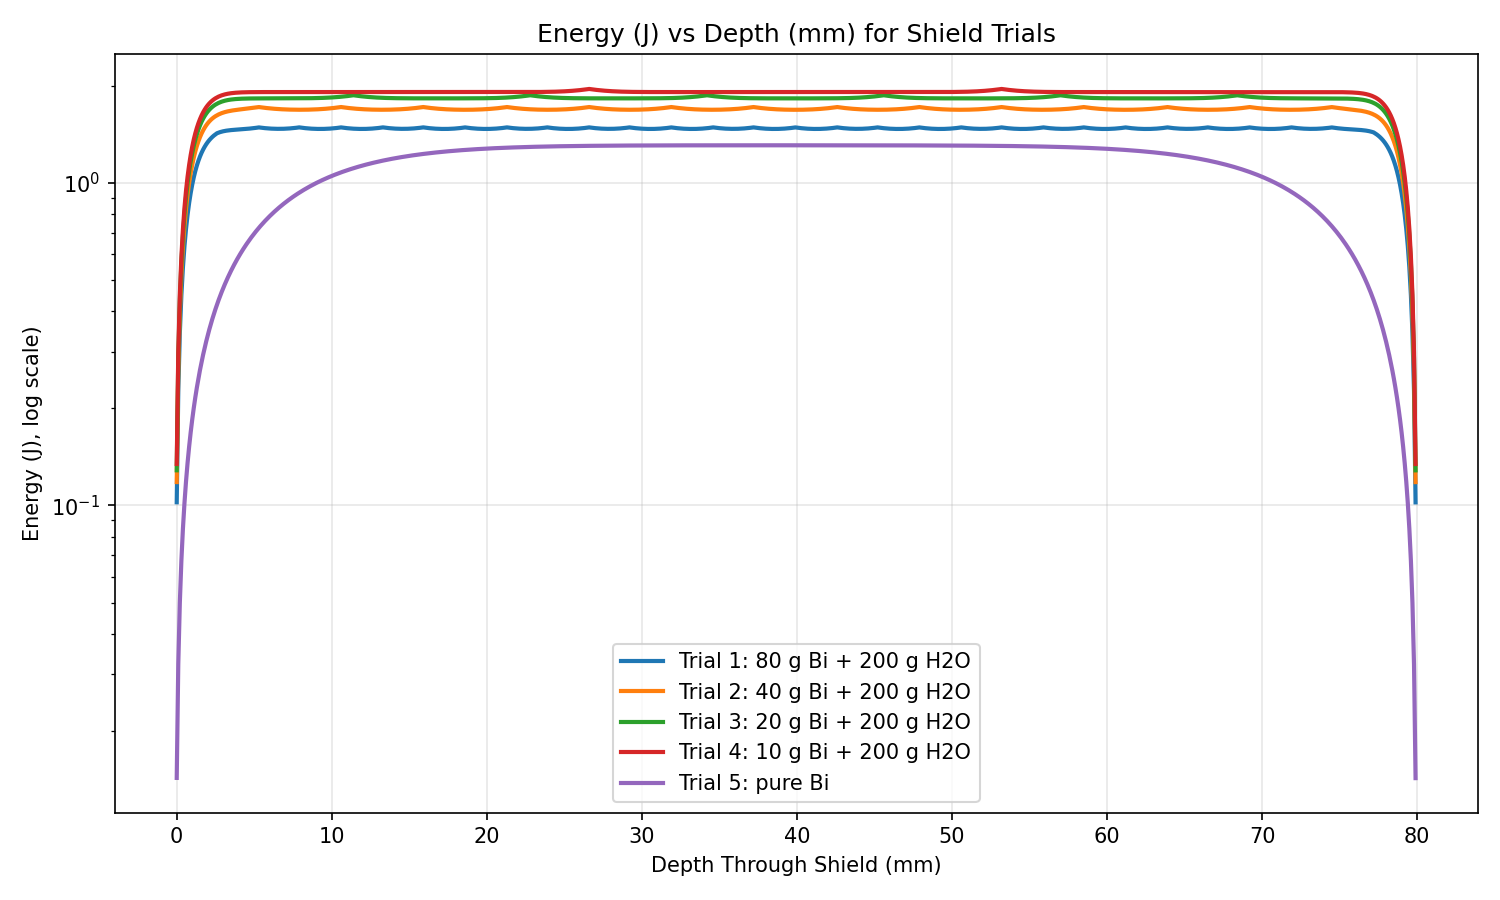
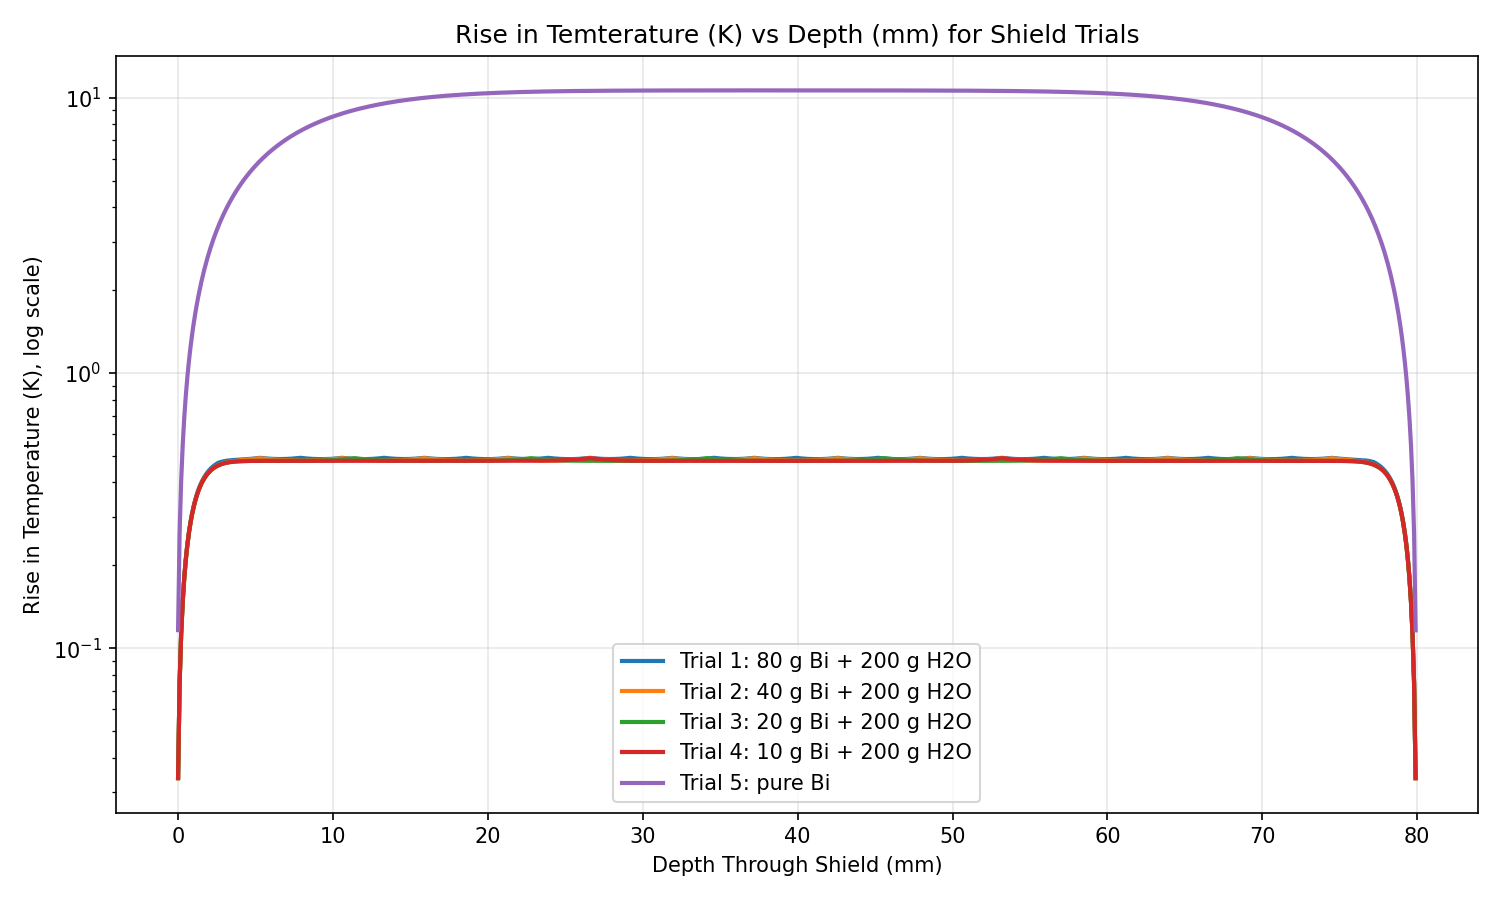
added back temperature rise over length

diff --git a/sim.py b/sim.py
@@ -420,10 +420,28 @@ def plot_trial_energy_profiles():
     ax.legend()
     ax.grid(alpha=0.3)
     fig.tight_layout()
-    fig.savefig("temperature_rise_by_trial.png", dpi=150)
+    fig.savefig("energy_rise_by_trial.png", dpi=150)
     return fig
 
 
+def plot_trial_temperature_profiles():
+    fig, ax = plt.subplots(figsize=(10, 6))
+
+    for label, bismuth_g, water_ml in TRIALS:
+        material_map = build_trial_material_map(bismuth_g, water_ml)
+        total_mass_kg = compute_trial_total_mass_kg(bismuth_g, water_ml)
+        _, _, _, _, z, T_final, _, _ = simulate_material_map(material_map)
+        ax.plot(z * 1000, (T_final - T_ENV), linewidth=2, label=label)
+
+    ax.set_xlabel("Depth Through Shield (mm)")
+    ax.set_ylabel("Rise in Temperature (K), log scale)")
+    ax.set_title("Rise in Temterature (K) vs Depth (mm) for Shield Trials")
+    ax.set_yscale("log")
+    ax.legend()
+    ax.grid(alpha=0.3)
+    fig.tight_layout()
+    fig.savefig("temperature_rise_by_trial.png", dpi=150)
+    return fig
 # ===================== RUN =====================
 
 times, avg_temp, exit_energy, layer_temps, z, T_final, total_deposited_energy_J, cell_masses = run_simulation()
@@ -459,13 +477,12 @@ for i in range(1, NUM_PHYSICAL_LAYERS):
 
 plt.tight_layout()
 plt.savefig("simulation_results.png", dpi=150)
-plt.show()
 
 trial_fig = plot_trial_energy_remaining_profiles()
-trial_fig.show()
 
-trial_temp_fig = plot_trial_energy_profiles()
-trial_temp_fig.show()
+trial_energy_fig = plot_trial_energy_profiles()
+
+trial_temp_fig = plot_trial_temperature_profiles()
 
 print(f"\nFinal avg temp: {avg_temp[-1]:.2f} K (ΔT = {avg_temp[-1]-293:.4f} K)")
 print(f"Final exit energy: {exit_energy[-1]:.2f} MeV (of {PROTON_KE_MEV:.0f} MeV input)")
